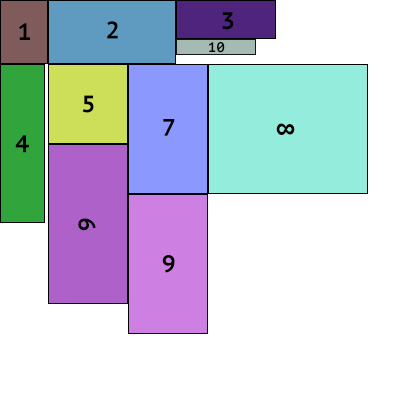
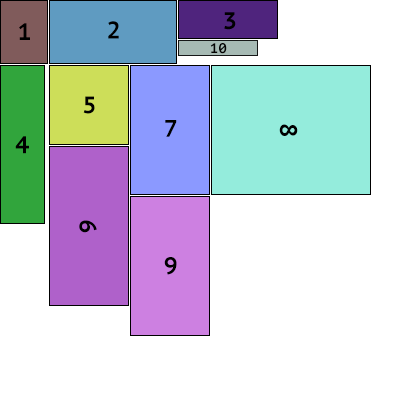
Added method `set_margin` to `Packer`

diff --git a/src/guillotine_packer.rs b/src/guillotine_packer.rs
@@ -8,6 +8,7 @@ use {
 pub struct GuillotinePacker<'a> {
     buf: &'a mut Buffer2d,
     free_areas: Vec<Rect>,
+    margin: u32,
 }
 
 impl<'a> GuillotinePacker<'a> {
@@ -24,6 +25,7 @@ impl<'a> GuillotinePacker<'a> {
         GuillotinePacker {
             buf: buf,
             free_areas: free_areas,
+            margin: 0,
         }
     }
 
@@ -109,11 +111,12 @@ impl<'a> GuillotinePacker<'a> {
 
 impl<'a> Packer for GuillotinePacker<'a> {
     fn pack(&mut self, buf: &Buffer2d) -> Option<Rect> {
-        let (image_width, image_height) = buf.dimensions();
-
-        match self.find_free_area(image_width, image_height) {
+        let (mut width, mut height) = buf.dimensions();
+        width += self.margin;
+        height += self.margin;
+        match self.find_free_area(width, height) {
             Some((i, rect)) => {
-                if image_width == rect.w {
+                if width == rect.w {
                     self.buf.patch(rect.x, rect.y, buf);
                 } else {
                     self.buf.patch_rotated(rect.x, rect.y, buf);
@@ -131,6 +134,10 @@ impl<'a> Packer for GuillotinePacker<'a> {
 
     fn buf(&self) -> &Buffer2d {
         self.buf
+    }
+
+    fn set_margin(&mut self, val: u32) {
+        self.margin = val;
     }
 }
 

diff --git a/src/skyline_packer.rs b/src/skyline_packer.rs
@@ -19,6 +19,7 @@ pub struct SkylinePacker<'a> {
     width: u32,
     height: u32,
     skylines: Vec<Skyline>,
+    margin: u32,
 }
 
 impl<'a> SkylinePacker<'a> {
@@ -36,6 +37,7 @@ impl<'a> SkylinePacker<'a> {
             width: width,
             height: height,
             skylines: skylines,
+            margin: 0,
         }
     }
 
@@ -155,10 +157,13 @@ impl<'a> SkylinePacker<'a> {
 
 impl<'a> Packer for SkylinePacker<'a> {
     fn pack(&mut self, buf: &Buffer2d) -> Option<Rect> {
-        let (image_width, image_height) = buf.dimensions();
-        match self.find_skyline(image_width, image_height) {
+        let (mut width, mut height) = buf.dimensions();
+        width += self.margin;
+        height += self.margin;
+
+        match self.find_skyline(width, height) {
             Some((i, rect)) => {
-                if image_width == rect.w {
+                if width == rect.w {
                     self.buf.patch(rect.x, rect.y, buf);
                 } else {
                     self.buf.patch_rotated(rect.x, rect.y, buf);
@@ -178,4 +183,9 @@ impl<'a> Packer for SkylinePacker<'a> {
     fn buf(&self) -> &Buffer2d {
         self.buf
     }
+
+    fn set_margin(&mut self, val: u32) {
+        self.margin = val;
+    }
 }
+

diff --git a/src/maxrect_packer.rs b/src/maxrect_packer.rs
@@ -8,6 +8,7 @@ use {
 pub struct MaxrectPacker<'a> {
     buf: &'a mut Buffer2d,
     free_areas: Vec<Rect>,
+    margin: u32,
 }
 
 impl<'a> MaxrectPacker<'a> {
@@ -25,6 +26,7 @@ impl<'a> MaxrectPacker<'a> {
         MaxrectPacker {
             buf: buf,
             free_areas: free_areas,
+            margin: 0,
         }
     }
 
@@ -122,10 +124,12 @@ impl<'a> MaxrectPacker<'a> {
 
 impl<'a> Packer for MaxrectPacker<'a> {
     fn pack(&mut self, buf: &Buffer2d) -> Option<Rect> {
-        let (image_width, image_height) = buf.dimensions();
-        match self.find_free_area(image_width, image_height) {
+        let (mut width, mut height) = buf.dimensions();
+        width += self.margin;
+        height += self.margin;
+        match self.find_free_area(width, height) {
             Some((i, rect)) => {
-                if image_width == rect.w {
+                if width == rect.w {
                     self.buf.patch(rect.x, rect.y, buf);
                 } else {
                     self.buf.patch_rotated(rect.x, rect.y, buf);
@@ -144,5 +148,9 @@ impl<'a> Packer for MaxrectPacker<'a> {
 
     fn buf(&self) -> &Buffer2d {
         self.buf
+    }
+
+    fn set_margin(&mut self, val: u32) {
+        self.margin = val;
     }
 }

diff --git a/src/shelf_packer.rs b/src/shelf_packer.rs
@@ -12,6 +12,7 @@ pub struct ShelfPacker<'a> {
     x: u32,
     y: u32,
     opening_shelf_max_y: u32,
+    margin: u32,
 }
 
 impl<'a> ShelfPacker<'a> {
@@ -24,6 +25,7 @@ impl<'a> ShelfPacker<'a> {
             x: 0,
             y: 0,
             opening_shelf_max_y: 0,
+            margin: 0,
         }
     }
 
@@ -31,8 +33,9 @@ impl<'a> ShelfPacker<'a> {
 
 impl<'a> Packer for ShelfPacker<'a> {
     fn pack(&mut self, buf: &Buffer2d) -> Option<Rect> {
-        let (buf_width, buf_height) = buf.dimensions();
-
+        let (mut buf_width, mut buf_height) = buf.dimensions();
+        buf_width += self.margin;
+        buf_height += self.margin;
         let mut patched_width = buf_width;
         let mut patched_height = buf_height;
 
@@ -82,6 +85,10 @@ impl<'a> Packer for ShelfPacker<'a> {
 
     fn buf(&self) -> &Buffer2d {
         &*self.buf
+    }
+
+    fn set_margin(&mut self, val: u32) {
+        self.margin = val;
     }
 }
 

diff --git a/src/main.rs b/src/main.rs
@@ -1,10 +1,8 @@
 
-extern crate image;
 extern crate texture_packer;
 
 use texture_packer::{
     RGBA,
-    Buffer2d,
     ImageBuffer,
     Packer,
     ShelfPacker,
@@ -22,6 +20,7 @@ fn pack(packer: &mut Packer, output_filename: &str) {
         filename.push_str(format!("{}.png", i).as_slice());
         let image = ImageBuffer::open(&Path::new(filename)).unwrap();
 
+        packer.set_margin(1);
         packer.pack(&image);
     }
 

diff --git a/src/packer.rs b/src/packer.rs
@@ -7,5 +7,7 @@ use {
 pub trait Packer {
     fn buf(&self) -> &Buffer2d;
     fn pack(&mut self, buf: &Buffer2d) -> Option<Rect>;
+
+    fn set_margin(&mut self, _val: u32) {}
 }
 
